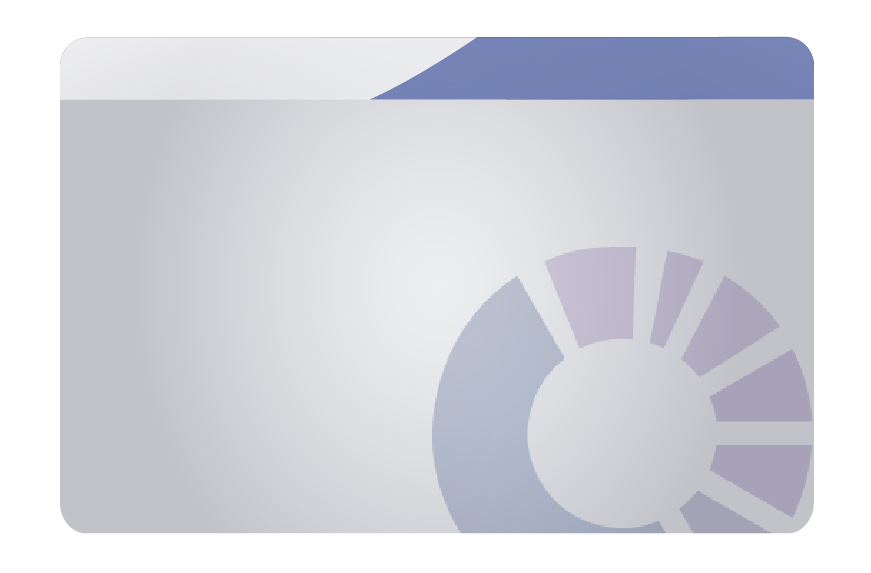
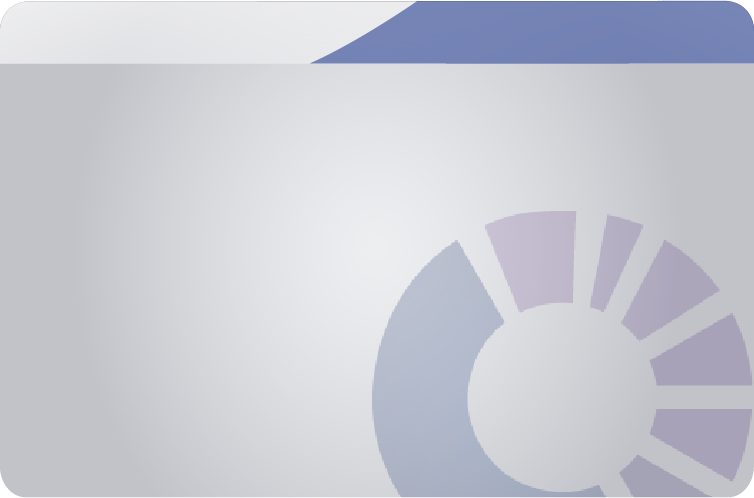
Cambios 21-09-2017 cambio en icono y fondo modal, mas login pagina completa

diff --git a/static/css/style.css b/static/css/style.css
@@ -111,10 +111,13 @@ body :-ms-input-placeholder {
   background: linear-gradient(to bottom right, #00A2DB 0%, #222D32 100%);*/
   position: absolute;
 /*  top: 50%;*/
-  left: 0;
-  width: 100%;
-  height: 768px;
-  margin-top: -20px;
+  height:100%;
+  width:100%;
+  background-repeat: no-repeat;
+  /*left: 0;*/
+  /*width: 100%;*/
+  /*height: 768px;*/
+  /*margin-top: -20px;*/
   overflow: hidden;
 }
 

diff --git a/application/views/login_form.php b/application/views/login_form.php
@@ -225,14 +225,22 @@
 				$("#registrarse").click(function (e) {
 					e.preventDefault();  // Para evitar que se envíe por defecto
 					$.post('<?php echo base_url(); ?>index.php/User_Authentication/enlace_disponible2/', function(response) {
-						//alert(response);
-						var cadena = response.split("@@@");
-						var cod_link = cadena[0];
-						//var userd_id = cadena[1];
-						var num_link = cadena[1];
-						$("#codigo").val(cod_link.trim());
-						$("#link").val(num_link);
-						$("#modal_registrar").modal('show'); 
+						//alert(response.trim());
+						if (response.trim() == 1){
+							bootbox.alert('<h4>Disculpe, en este momento no hay links disponibles', function () {
+								url = '<?php echo base_url(); ?>index.php/'
+								window.location = url;
+							});
+						}else{
+							var cadena = response.split("@@@");
+							var cod_link = cadena[0];
+							//var userd_id = cadena[1];
+							var num_link = cadena[1];
+							$("#codigo").val(cod_link.trim());
+							$("#link").val(num_link);
+							$("#modal_registrar").modal('show'); 
+						}
+						
 					});
 				});
 			});
@@ -240,7 +248,7 @@
 		
 		
 		<style type="text/css">
-
+		
 			#modal_registrar input{
 				opacity: 0.5;
 				border-bottom-right-radius: 5px;
@@ -402,7 +410,7 @@
 		</div>
 
 		
-		<div class="modal" id="modal_registrar" style="height:auto;">
+		<div class="modal" id="modal_registrar" style="height:auto; margin-top: 3%">
 		   <div class="modal-dialog" style="height:auto; background-image: url('../static/img/modal_registro/fondo.png'); background-size: 100%; background-repeat: no-repeat">
 			  <div style="height:auto;">
 				 <div class="modal-header text-center" >
